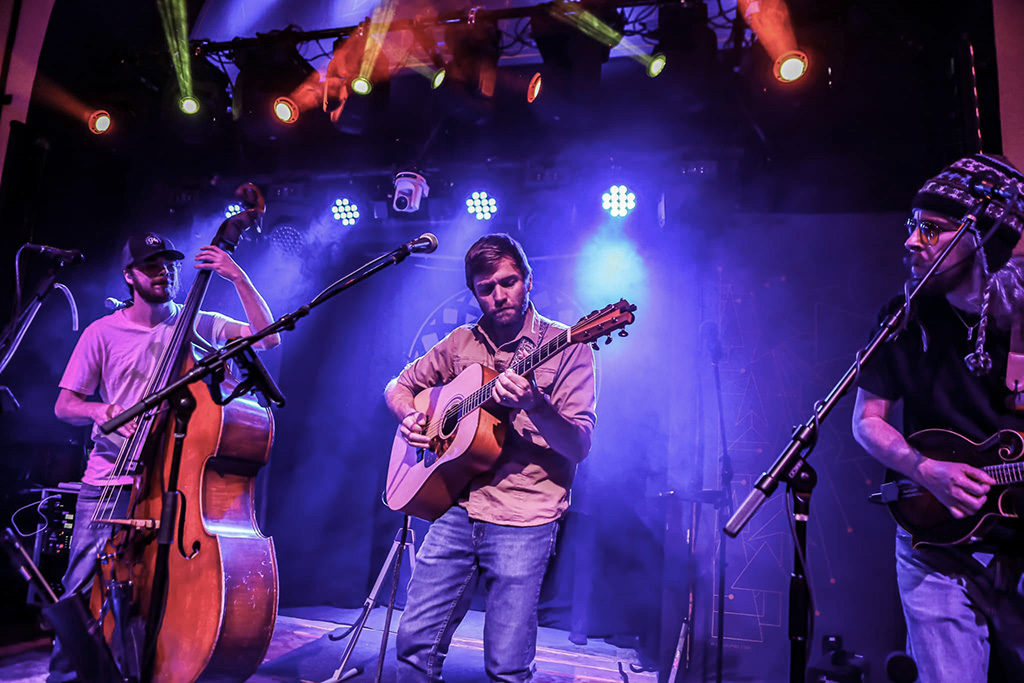
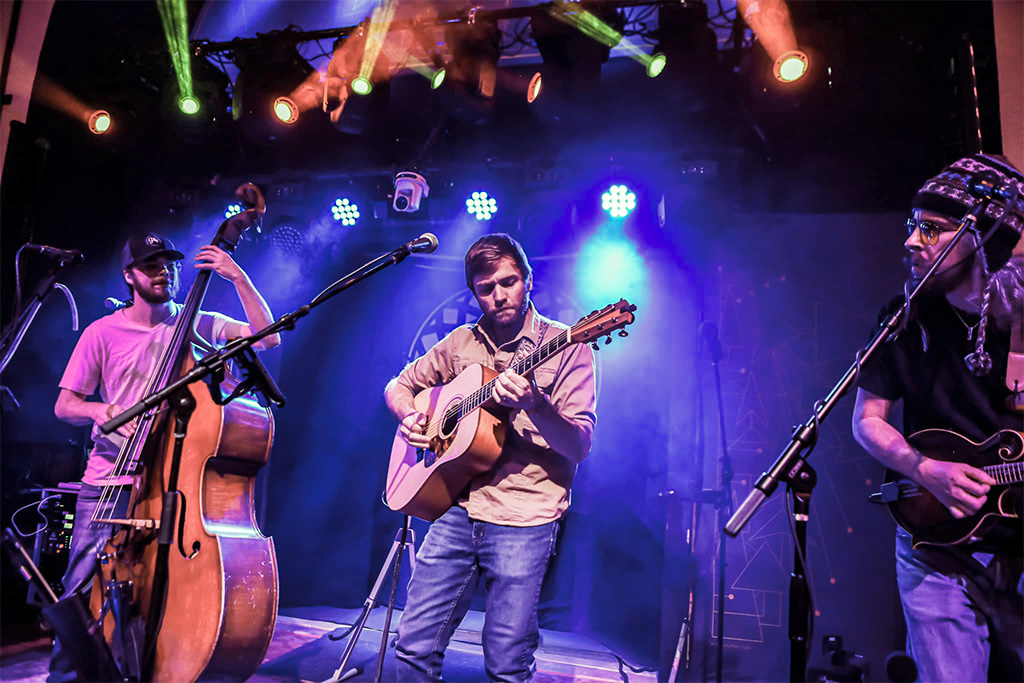
Updated colors of hero image and credited photographer

diff --git a/index.html b/index.html
@@ -44,6 +44,8 @@
 
             <img class="hero-image" src="images/into-the-fog-jamgrass-band.jpg" alt="Into The Fog jamgrass bluegrass band performing live on stage">
 
+            <p class="photo-caption">Photo taken by Cloud Bobby Productions</p>
+
             <div class="card">
 
                 <p>Into the Fog is an award-winning bluegrass band known for blending genres and delivering high energy performances. After starting in 2017, Into the Fog quickly solidified themselves as a genuine part of the North Carolina music community; releasing multiple albums and forming an extensive history of touring.</p>
